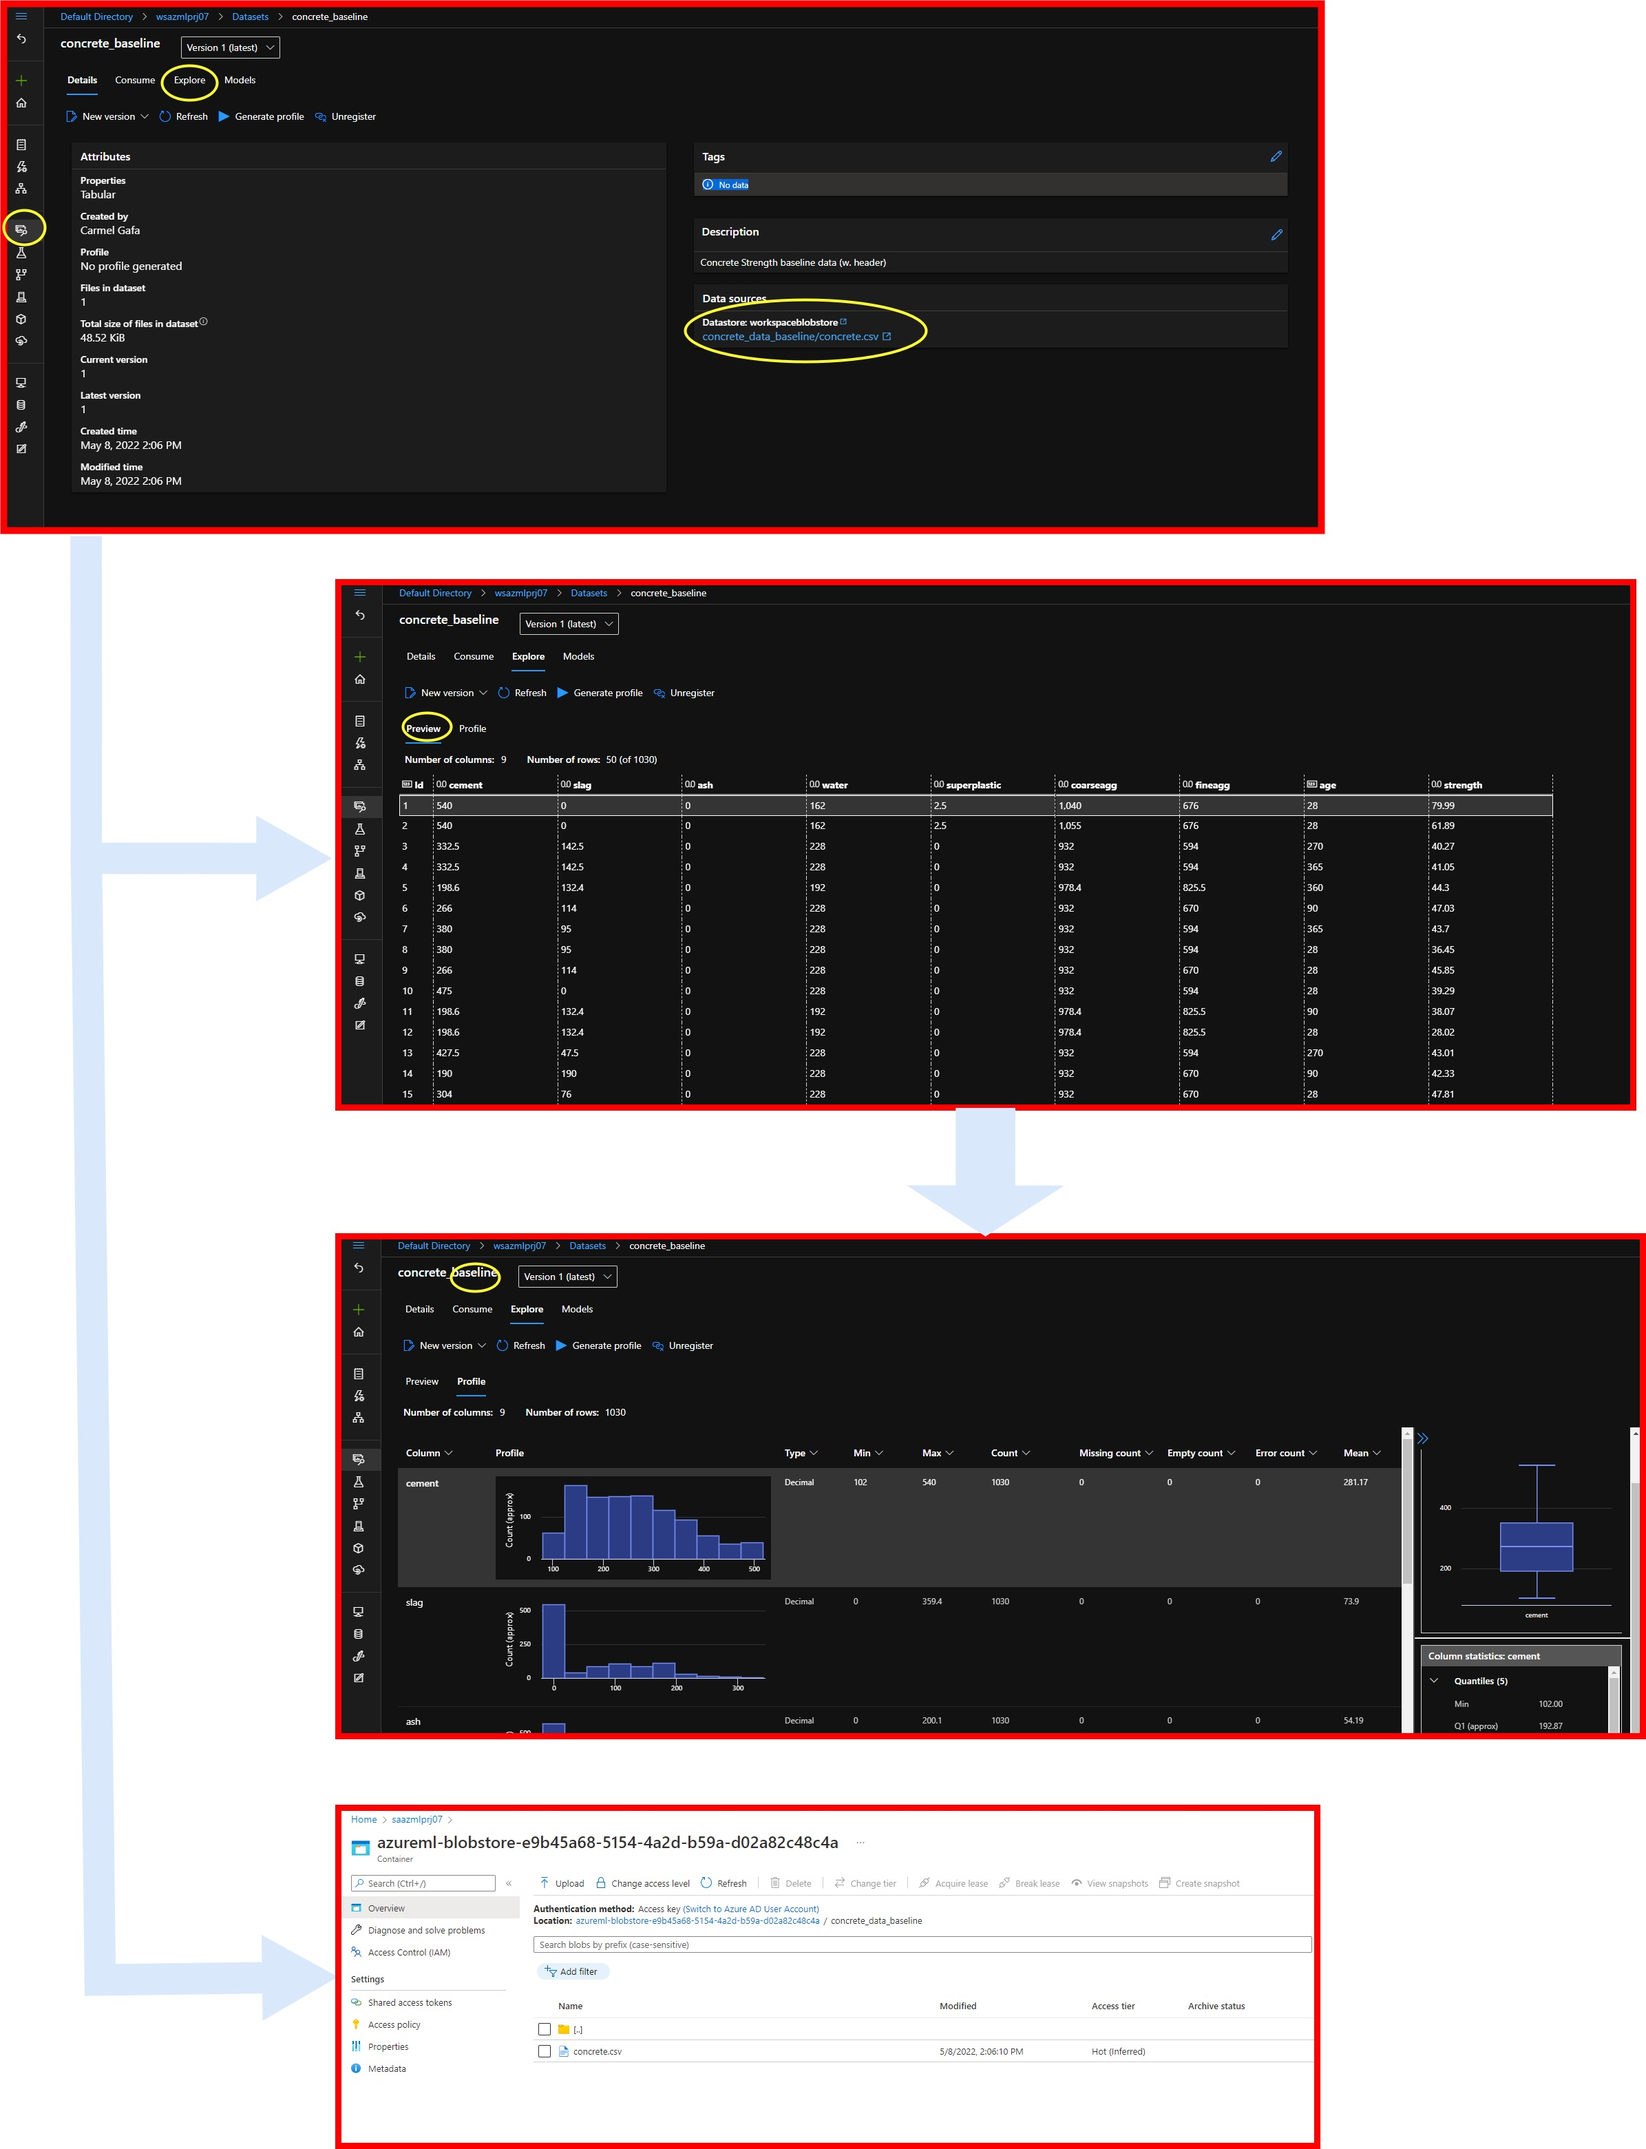
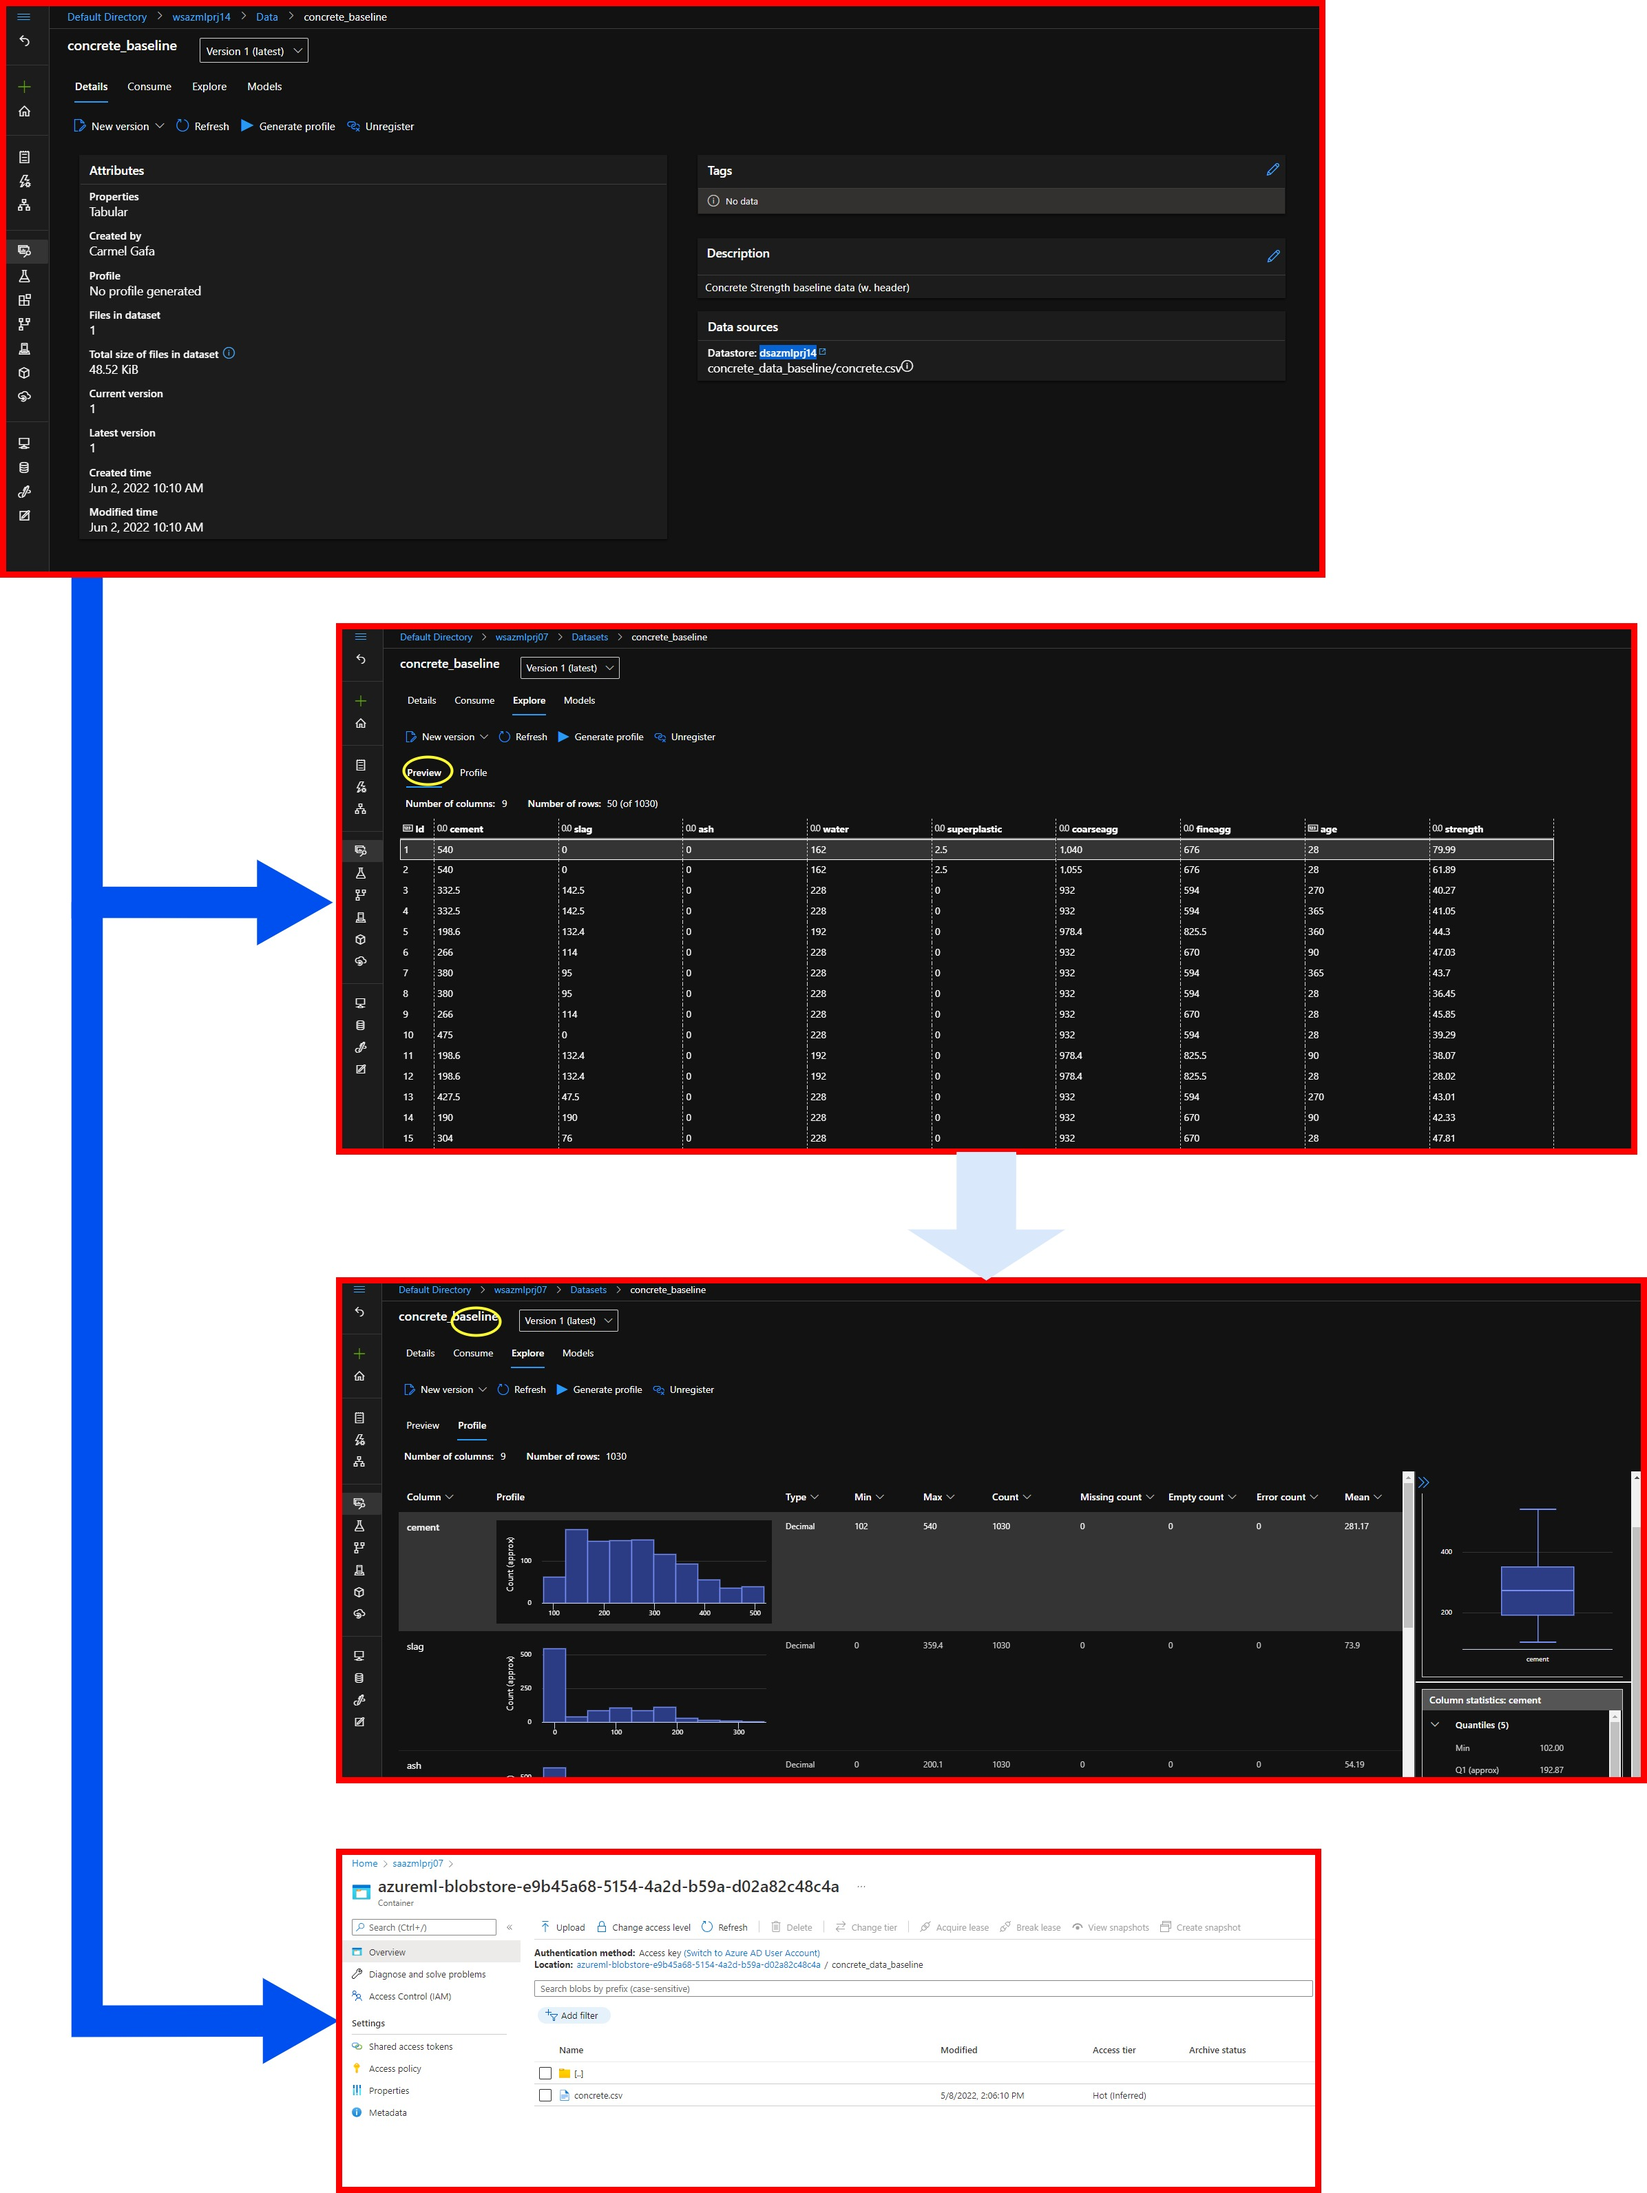
addedto __DRAFT_azureml_pipeline_introduction - updated image and text

diff --git a/content/post/__DRAFT_azureml_pipeline_introduction.md b/content/post/__DRAFT_azureml_pipeline_introduction.md
@@ -54,7 +54,9 @@ At a high level, the project structure is as follows:
     - **$\dots$**
   - **workspace_creation**
 
-As discussed in the [previous posts on this site](https://carmelgafa.com/tags/azure-ml/), I have created several scripts that instantiate the Azure resource group and AzureML Workspace with its Compute resources and Azure ML Datastore. One advantage of this approach is that it is easier to delete the resource group and recreate it whenever necessary, thus saving some money. The workspace creation scripts are driven from a parameters file that contains the names of the various entities that the user will create. The AzureML workspace configuration is then stored in the file **.azureml/config.json**.
+As discussed in the [previous posts on this site](https://carmelgafa.com/tags/azure-ml/), I have created several scripts that instantiate the Azure resource group, AzureML Workspace with its Compute resources, and an Azure ML Datastore with the name of the project. One advantage of this approach is that it is easier to delete the resource group and recreate it whenever necessary, thus saving some money. The workspace creation scripts are driven from a parameters file containing the names of the various entities that the user will create, derived from the name of the project. For example, in this project, the project name is set to **azmlprj14** and therefore the resource group name is **rgazmlprj14**, the workspace name is **wsazmlprj14** and so on.
+
+The AzureML workspace configuration is then stored in the file **.azureml/config.json**.
 
 ## The Project
 
@@ -115,6 +117,8 @@ DATASET_NAME = 'concrete_baseline'
 # Load the workspace configuration from the .azureml folder.
 config_path = os.path.join(
     os.path.dirname(os.path.realpath(__file__)),
+    '..',
+    '..',
     '.azureml')
 w_space = Workspace.from_config(path=config_path)
 
@@ -151,7 +155,7 @@ else:
     print('Dataset already exists')
 ```
 
-We can verify that the new dataset was correctly created by checking the **Datasets** tab in AzureML Workspace, where we should find the dataset **concrete_baseline**. We can also see the Datastore where we uploaded the data, the default data store for the workspace. We confirm that the data file, **concrete.csv**, was uploaded to the **concrete_data_baseline** folder.
+We can verify that the new dataset was correctly created by checking the **Datasets** tab in AzureML Workspace, where we should find the dataset **concrete_baseline**. We can also see the Datastore where we uploaded the data, **dsazmlprj14**, or the associated datastore created with the workspace. We confirm that the data file, **concrete.csv**, was uploaded to the **concrete_data_baseline** folder.
 
 We can also look at the dataset by selecting the **Explore** tab on this page, which directs us to the data dump of the dataset. We can also see that features and labels are all numerical, as they all have a **00** near their name. We can also see that the dataset has 1030 instances.
 
